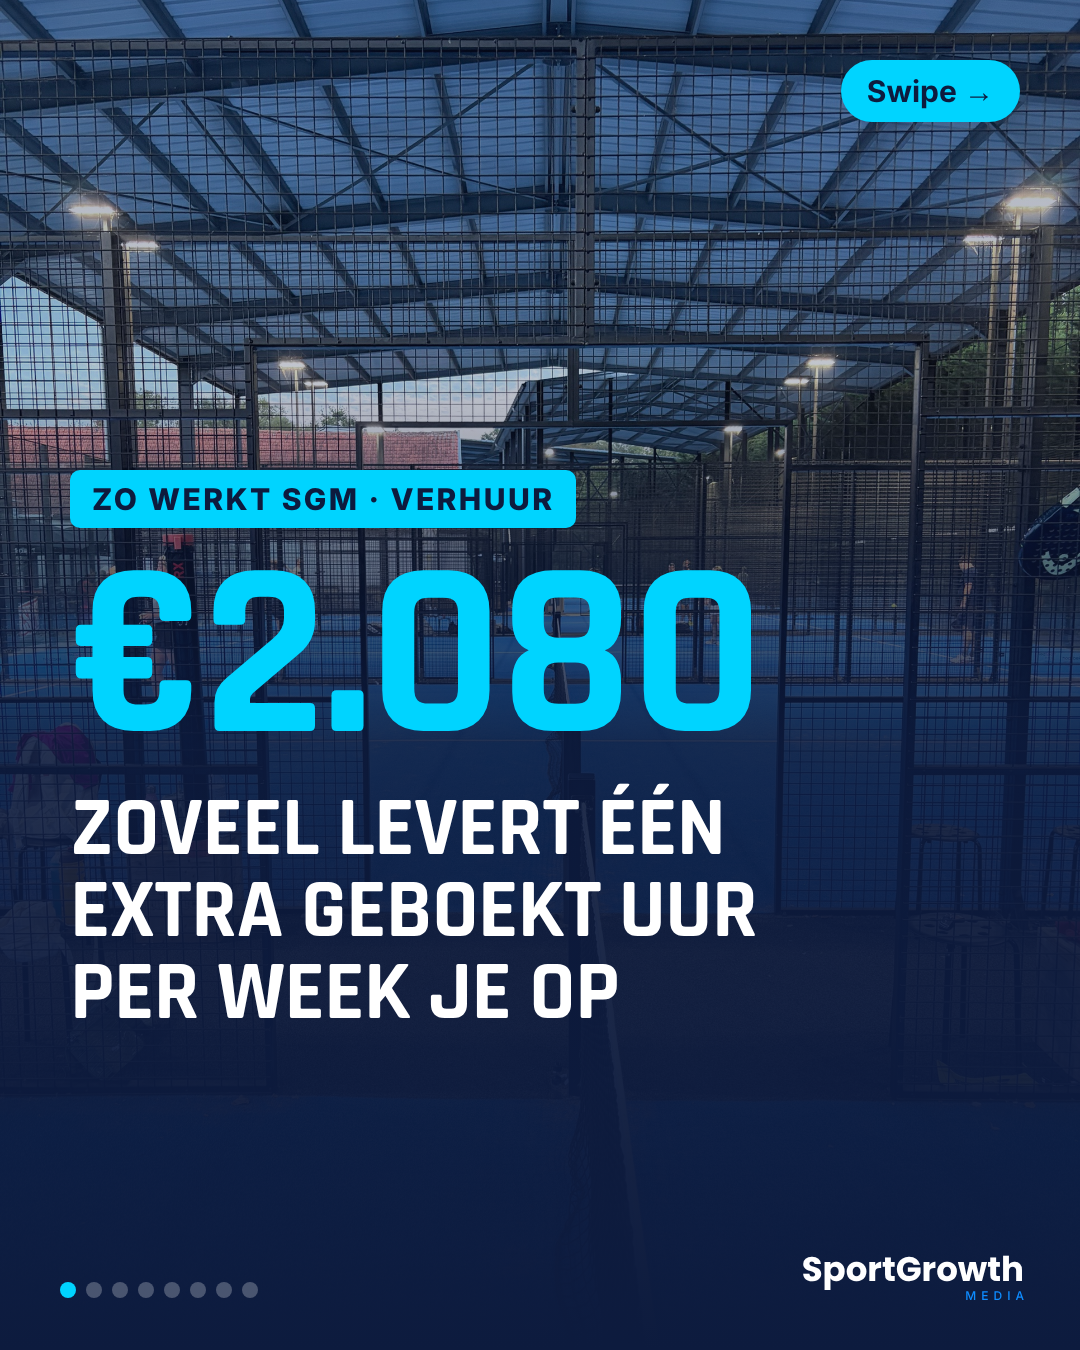
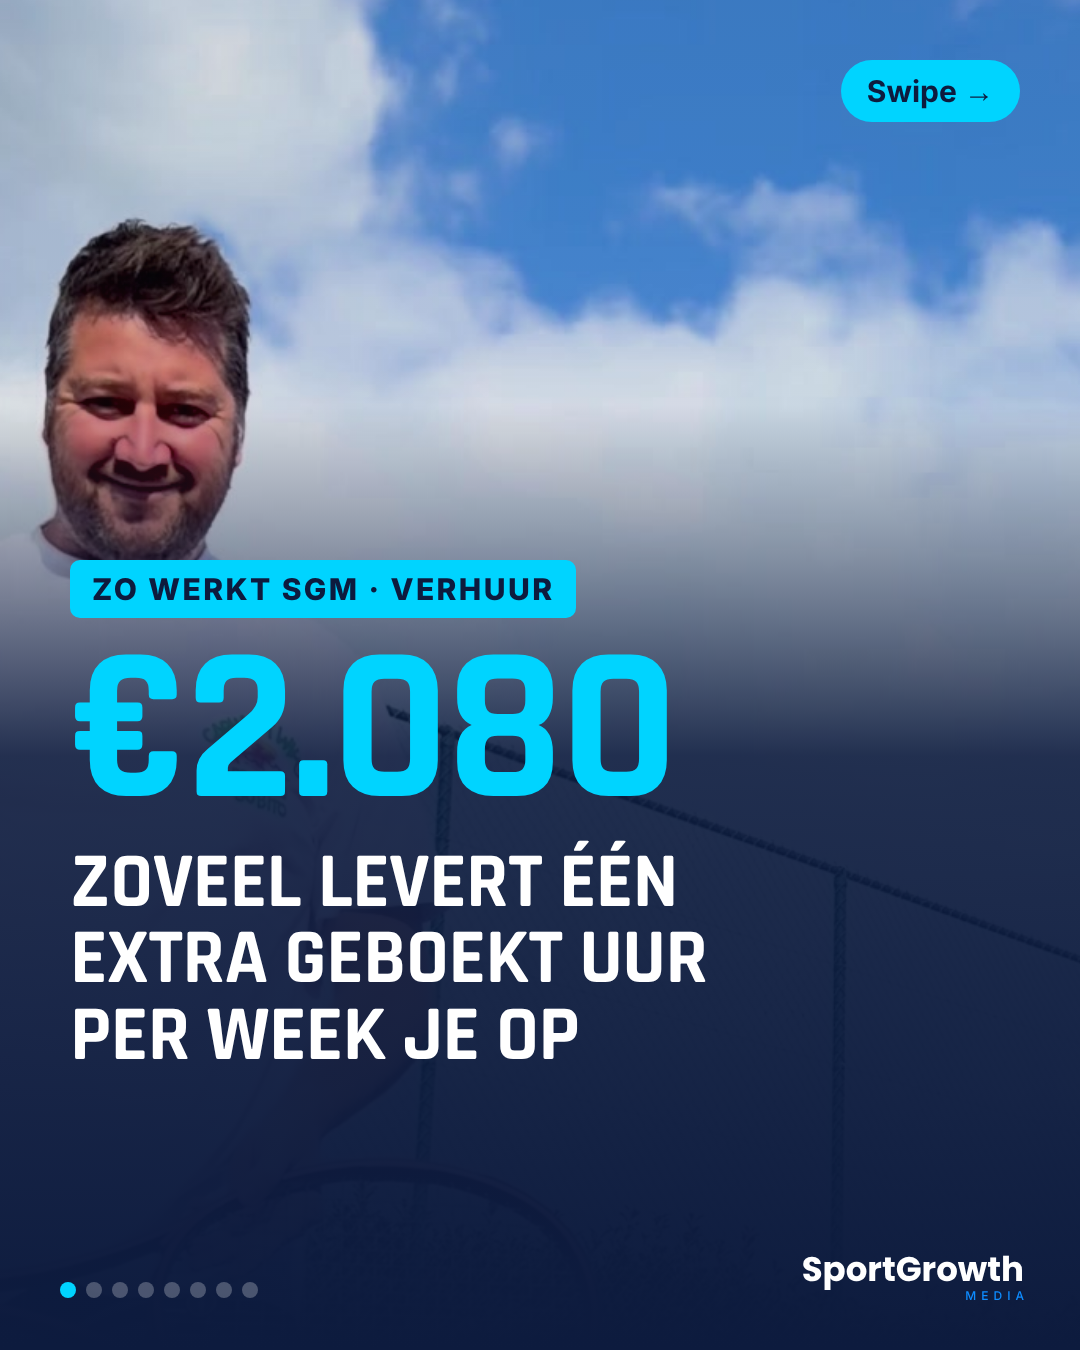
Carrousel extra uur: cover met Jari
Claude-Session: https://claude.ai/code/session_01QkSWZzWLTduRQtPp2zathG

diff --git a/instagram/carrousel-extra-uur/build.js b/instagram/carrousel-extra-uur/build.js
@@ -40,13 +40,13 @@ const S = [];
 const B2 = B;
 // 1 COVER
 S.push(page(1, `
-<div class="bg" style="background-image:${i64(B2 + '/padel-net-overdekte-hal.jpg')};background-position:center 40%"></div>
-<div class="dim" style="background:linear-gradient(180deg,rgba(13,27,62,.35) 0%,rgba(13,27,62,.25) 28%,rgba(13,27,62,.9) 55%,#0d1b3e 100%)"></div>
+<div class="bg" style="background-image:${i64(B2 + '/jari-tennis-lacht.jpg')};background-size:1700px auto;background-position:-40px -560px"></div>
+<div class="dim" style="background:linear-gradient(180deg,rgba(13,27,62,.15) 0%,rgba(13,27,62,.1) 30%,rgba(13,27,62,.9) 56%,#0d1b3e 100%)"></div>
 <div class="swipe">Swipe →</div>
-<div class="col" style="top:470px;gap:24px">
+<div class="col" style="top:560px;gap:20px">
 <span class="tag">ZO WERKT SGM · VERHUUR</span>
-<div style="font:700 250px/.85 Rj;color:#00d4ff;letter-spacing:-4px">€2.080</div>
-<h1 style="font-size:84px;line-height:.98">Zoveel levert één<br>extra geboekt uur<br>per week je op</h1>
+<div style="font:700 220px/.85 Rj;color:#00d4ff;letter-spacing:-4px">€2.080</div>
+<h1 style="font-size:78px;line-height:.98">Zoveel levert één<br>extra geboekt uur<br>per week je op</h1>
 </div>`));
 // 2 HERKENNING
 S.push(page(2, `

diff --git a/instagram/carrousel-extra-uur/README.md b/instagram/carrousel-extra-uur/README.md
@@ -1,3 +1,3 @@
 # Carrousel ma 9/11 · "Zoveel levert één extra geboekt uur per week je op" (ZO WERKT SGM · VERHUUR)
-`node build.js` → slide01-08.png (1080x1350). Caption: caption.txt. Cover: padel-net-overdekte-hal.jpg.
+`node build.js` → slide01-08.png (1080x1350). Caption: caption.txt. Cover: jari-tennis-lacht.jpg (gezicht + cijfer, zie statistieken.md).
 Rekenvoorbeeld: €40/uur (4 spelers × €10), 52 weken. Lessen: 5 × €15 × 30. Mini €249/maand = ±€57/week < 2 uren.
